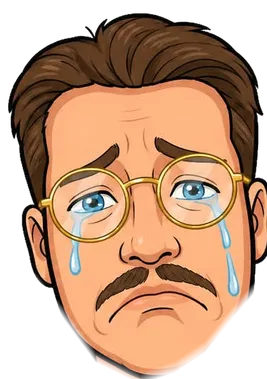
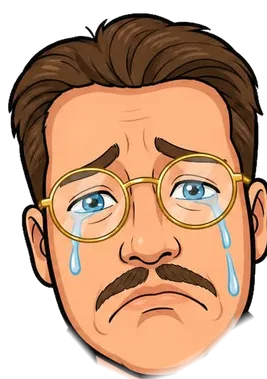
issue #537: Elias käke/kind hel – maskens högersida följer konturen med marginal, kragen sänkt under hakan

diff --git a/src/live/trollkarl/trollkarl-delar.js b/src/live/trollkarl/trollkarl-delar.js
@@ -106,8 +106,8 @@ export function collarSvg(t, who) {
   if (who === "elias") {
     // Slätrakad haka + svart skjorta i urklippet: kragen tuckas tätt under hakan.
     return `<g aria-hidden="true">
-      <path d="M106 304 L115 243 Q200 257 285 243 L294 304 Q200 338 106 304Z" fill="${t.trim}"/>
-      <path d="M115 243 Q200 257 285 243 L282 254 Q200 270 118 254Z" fill="#00000026"/>
+      <path d="M106 304 L114 264 Q200 288 286 264 L294 304 Q200 338 106 304Z" fill="${t.trim}"/>
+      <path d="M114 264 Q200 288 286 264 L283 275 Q200 300 117 275Z" fill="#00000026"/>
     </g>`;
   }
   // Rasmus: skägget flödar ner – kragen får sitta lägre och dippa i mitten.
